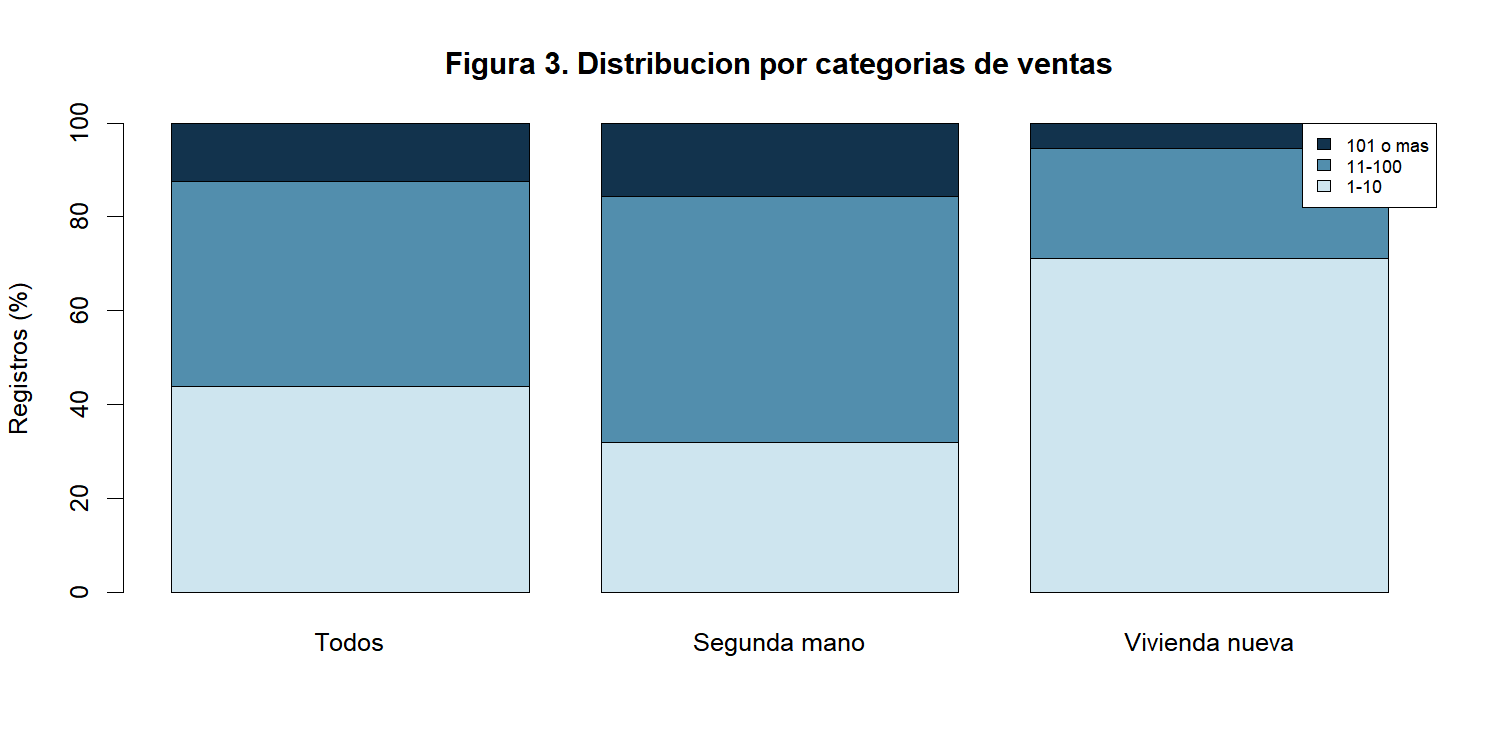
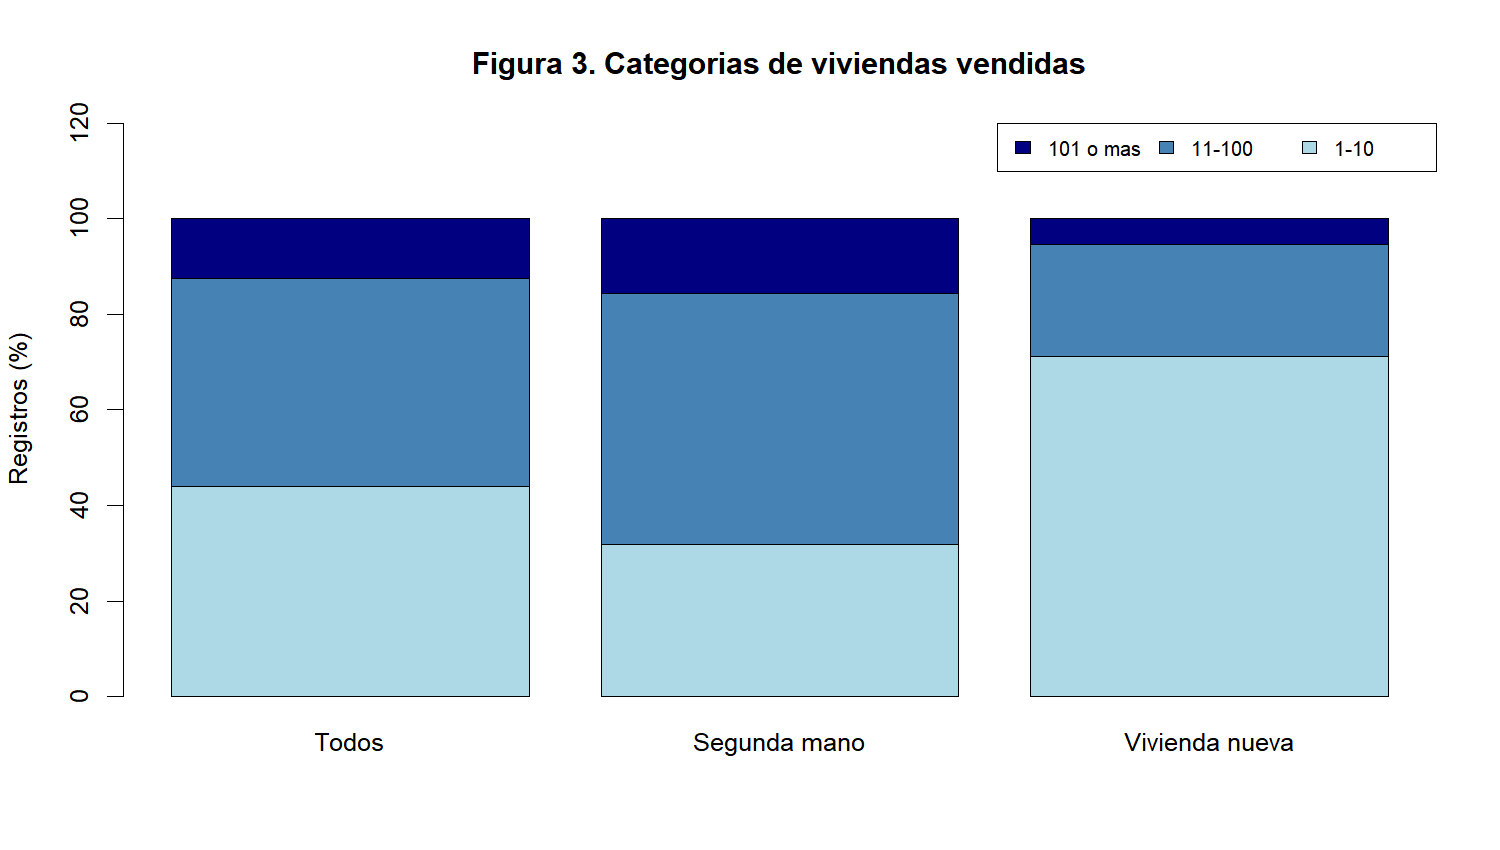
Ajustar PL1 a las practicas 1, 2 y 3: cuartiles tipo 2 y medidas de forma

diff --git a/README.md b/README.md
@@ -2,9 +2,9 @@
 
 **Autor:** Hugo Abellán Lopez  
 **Asignatura:** Estadística · Práctica de laboratorio PL1  
-**Fecha:** 19 de octubre de 2026
+**Fecha:** 24 de octubre de 2026
 
-Comparación entre vivienda nueva y de segunda mano. Informe en Markdown preparado para su publicación en GitHub como actividad extra de PL1.
+Comparación entre vivienda nueva y de segunda mano. Informe en Markdown publicado en GitHub como actividad extra de PL1.
 
 ## 1. Introducción
 
@@ -24,11 +24,11 @@ El estudio se limita al archivo facilitado para 2025-T4. **Antes de realizar cua
 
 ### 2.1 Origen de los datos
 
-Se utiliza `transacciones_vivienda_municipios_2025_T4.csv`, selección facilitada para la práctica. El conjunto oficial es [Transacciones inmobiliarias de vivienda nueva y de segunda mano, por municipio. Comunidad de Madrid](https://datos.comunidad.madrid/dataset/transacciones_vivienda_nueva_usada_municipio). Esa página permite descargar los datos originales y señala como fuente la Estadística de Transacciones Inmobiliarias. El catálogo puede actualizarse; los cálculos reproducen el archivo incluido en este proyecto.
+Se utiliza `transacciones_vivienda_municipios_2025_T4.csv`, selección facilitada para la práctica. El conjunto oficial es [Transacciones inmobiliarias de vivienda nueva y de segunda mano, por municipio. Comunidad de Madrid](https://datos.comunidad.madrid/dataset/transacciones_vivienda_nueva_usada_municipio). Esa página permite descargar los datos originales y señala como fuente la Estadística de Transacciones Inmobiliarias. El catálogo puede actualizarse; los cálculos reproducen el archivo incluido en el proyecto de RStudio que se entrega con la práctica.
 
 ### 2.2 Herramientas
 
-Se utiliza R 4.6.1 con funciones de R base, sin instalar paquetes. El proyecto puede abrirse en RStudio. Se ha empleado asistencia de inteligencia artificial para preparar el código, posteriormente ejecutado y comprobado. El código se encuentra en `analisis.R`, separado del informe.
+Se utiliza R 4.6.1 con funciones de R base, sin instalar paquetes. El proyecto puede abrirse en RStudio. Se ha empleado asistencia de inteligencia artificial para preparar el código, posteriormente ejecutado y comprobado. El código se entrega en `analisis.R`, separado del informe. Sigue los procedimientos de las prácticas 1, 2 y 3: lectura y filtros, medidas descriptivas y comparación por grupos con `tapply`.
 
 ### 2.3 Diseño
 
@@ -66,6 +66,7 @@ La tabla 2 presenta centralización, dispersión, localización y forma para Tod
 | Suma (viviendas) | 21188 | 19677 | 1511 |
 | Media (v) | 88,65 | 118,54 | 20,70 |
 | Mediana (v) | 13,00 | 21,50 | 4,00 |
+| Moda (v) | 1,00 | 3,00 | 1,00 |
 | Mínimo (v) | 1,00 | 1,00 | 1,00 |
 | Máximo (v) | 10.344,00 | 10.344,00 | 310,00 |
 | Rango (v) | 10.343,00 | 10.343,00 | 309,00 |
@@ -73,16 +74,16 @@ La tabla 2 presenta centralización, dispersión, localización y forma para Tod
 | Desviación típica (v) | 671,62 | 804,18 | 47,64 |
 | Coeficiente de variación | 7,58 | 6,78 | 2,30 |
 | Primer cuartil (v) | 4,00 | 7,00 | 1,00 |
-| Tercer cuartil (v) | 38,00 | 54,25 | 19,00 |
-| Rango intercuartílico (v) | 34,00 | 47,25 | 18,00 |
-| Asimetría de Fisher | 14,99 | 12,50 | 4,17 |
-| Exceso de curtosis | 226,38 | 156,39 | 19,61 |
+| Tercer cuartil (v) | 38,00 | 55,00 | 19,00 |
+| Rango intercuartílico (v) | 34,00 | 48,00 | 18,00 |
+| Asimetría | 14,90 | 12,39 | 4,08 |
+| Exceso de curtosis | 224,46 | 154,47 | 18,99 |
 | Inferiores a la media | 207 (86,61%) | 143 (86,14%) | 55 (75,34%) |
 | Superiores a la media | 32 (13,39%) | 23 (13,86%) | 18 (24,66%) |
 
 **Unidades:** v = viviendas vendidas por municipio en el cuarto trimestre de 2025 para el tipo correspondiente. La varianza tiene esa unidad al cuadrado. CV, asimetría y curtosis no tienen unidades. No hay valores iguales a la media.
 
-La varianza y la desviación típica usan n−1. Los cuartiles usan el método tipo 7 de R. Los momentos centrales se definen como mₖ = Σ(xᵢ − media)ᵏ/n; se calcula asimetría = m₃/m₂^(3/2) y exceso de curtosis = m₄/m₂² − 3, sin corrección de sesgo y en la escala original. La moda es 1 en Todos, 3 en segunda mano y 1 en vivienda nueva, en viviendas vendidas por municipio en 2025-T4.
+La varianza y la desviación típica usan n-1. Los cuartiles y el rango intercuartílico se calculan con **tipo 2**, siguiendo la práctica 2. Para las medidas de forma se usan las funciones definidas en esa práctica: asimetría = media de (x - media)^3 / s^3; exceso de curtosis = media de (x - media)^4 / s^4 - 3, donde s es la desviación típica muestral. Son equivalentes al tipo 3 de `e1071`, sin necesidad de instalar ese paquete. Todos los cálculos se realizan sobre los valores originales.
 
 ### 3.3 Tablas de contingencia
 
@@ -126,7 +127,7 @@ La figura 2 muestra histogramas y diagramas de caja para Todos y cada tipo.
 
 **Figura 2. Histogramas y diagramas de caja de las ventas, total y por tipo.**
 
-Los histogramas representan log10 de las ventas: 0 equivale a 1 vivienda, 1 a 10, 2 a 100, 3 a 1.000 y 4 a 10.000. Las cajas utilizan eje vertical logarítmico. La línea negra marca la mediana y la roja discontinua la media, transformada únicamente para situarla en el gráfico. Los bigotes siguen la regla de 1,5 veces el rango intercuartílico en los datos originales. Los atípicos se conservan. Las medidas de la tabla 2 se calculan en la escala original.
+Los histogramas y diagramas de caja muestran el número original de viviendas vendidas, sin aplicar logaritmos. Cada panel tiene su propia escala; deben leerse sus ejes antes de comparar. La línea negra indica la mediana y la roja discontinua la media. El máximo de segunda mano comprime visualmente los valores pequeños; la tabla 2 y la figura 3 permiten completar la comparación. Los diagramas de caja usan las bisagras de Tukey que aplica `boxplot` de R, que pueden diferir ligeramente de los cuartiles de tipo 2 de la tabla. Los puntos fuera de los bigotes son atípicos según la regla del diagrama, pero se mantienen en todos los cálculos.
 
 La figura 3 compara los porcentajes de las categorías de la tabla 4 dentro de cada muestra.
 
@@ -142,9 +143,9 @@ La tabla 1 y la figura 1 muestran que el 69,46% de los 239 registros positivos c
 
 Según la tabla 2, Todos tiene una media de 88,65 viviendas vendidas por municipio y tipo en 2025-T4 y una mediana de 13,00 viviendas vendidas por municipio y tipo en ese trimestre. La media de segunda mano es de 118,54 viviendas vendidas por municipio, frente a 20,70 viviendas nuevas vendidas por municipio, siempre en el cuarto trimestre de 2025. Las medianas respectivas son 21,50 y 4,00 viviendas vendidas por municipio en dicho trimestre. La segunda mano presenta valores mayores con ambas medidas.
 
-La tabla 2 y la figura 2 reflejan gran dispersión. La desviación típica es de 804,18 viviendas de segunda mano vendidas por municipio en 2025-T4, frente a 47,64 viviendas nuevas vendidas por municipio en ese trimestre. Los CV son 6,78 y 2,30: la segunda mano también tiene mayor dispersión relativa. Sus cuartiles van de 7,00 a 54,25 viviendas de segunda mano vendidas por municipio en 2025-T4; en vivienda nueva van de 1,00 a 19,00 viviendas nuevas vendidas por municipio en ese trimestre.
+La tabla 2 y la figura 2 reflejan gran dispersión. La desviación típica es de 804,18 viviendas de segunda mano vendidas por municipio en 2025-T4, frente a 47,64 viviendas nuevas vendidas por municipio en ese trimestre. Los CV son 6,78 y 2,30: la segunda mano también tiene mayor dispersión relativa. Sus cuartiles van de 7,00 a 55,00 viviendas de segunda mano vendidas por municipio en 2025-T4; en vivienda nueva van de 1,00 a 19,00 viviendas nuevas vendidas por municipio en ese trimestre.
 
-La asimetría es positiva en Todos (14,99), segunda mano (12,50) y vivienda nueva (4,17), como indica la tabla 2. La figura 2 muestra valores altos aislados. El máximo es de 10.344 viviendas de segunda mano vendidas en un municipio en 2025-T4, frente a 310 viviendas nuevas vendidas en un municipio en ese trimestre. El exceso de curtosis es elevado: 226,38 en Todos, 156,39 en segunda mano y 19,61 en vivienda nueva. Refleja el peso de los extremos; la forma en escala original no debe deducirse de la apariencia de los histogramas transformados.
+La asimetría es positiva en Todos (14,90), segunda mano (12,39) y vivienda nueva (4,08), como indica la tabla 2. La figura 2 muestra valores altos aislados. El máximo es de 10.344 viviendas de segunda mano vendidas en un municipio en 2025-T4, frente a 310 viviendas nuevas vendidas en un municipio en ese trimestre. El exceso de curtosis es elevado: 224,46 en Todos, 154,47 en segunda mano y 18,99 en vivienda nueva. Refleja el peso de los extremos; los histogramas se representan en la escala original y muestran la concentración de las ventas en los intervalos bajos.
 
 La tabla 2 muestra que 143 registros de segunda mano (86,14%) y 55 de vivienda nueva (75,34%) quedan por debajo de la media de su grupo. La mediana permite describir el centro con menor influencia de los municipios con más ventas.
 
@@ -158,7 +159,10 @@ Entre los registros positivos de la Comunidad de Madrid, la segunda mano present
 
 ## 6. Referencias
 
-- Comunidad de Madrid. (s. f.). *Transacciones inmobiliarias de vivienda nueva y de segunda mano, por municipio. Comunidad de Madrid* [Conjunto de datos]. [Catálogo y descarga](https://datos.comunidad.madrid/dataset/transacciones_vivienda_nueva_usada_municipio). Consulta: 19 de octubre de 2026.
+- Comunidad de Madrid. (s. f.). *Transacciones inmobiliarias de vivienda nueva y de segunda mano, por municipio. Comunidad de Madrid* [Conjunto de datos]. [Catálogo y descarga](https://datos.comunidad.madrid/dataset/transacciones_vivienda_nueva_usada_municipio). Consulta: 24 de octubre de 2026.
+- Hilera, J. R. (2026). [Práctica 1: Introducción a R y RStudio](https://hilera.web.uah.es/estadistica/r/p1/index.html).
+- Hilera, J. R. (2026). [Práctica 2: Estadística descriptiva con una variable](https://hilera.web.uah.es/estadistica/r/p2/p2.pdf).
+- Hilera, J. R. (2026). [Práctica 3: Estadística descriptiva con dos variables](https://hilera.web.uah.es/estadistica/r/p3/p3.pdf).
 - Hilera, J. R. (2026). *Práctica 4: Informe de estadística descriptiva* [Material docente, p4.pdf]. CC-BY.
 - Universidad de Alcalá. (s. f.). *PL1: Informe de estadística descriptiva* [Enunciado facilitado, PL1.pdf].
 
@@ -222,7 +226,7 @@ Valores en viviendas vendidas por municipio en el cuarto trimestre de 2025 para 
   310
 ```
 
-## Archivos y publicación
+## Actividad extra: publicación en GitHub
 
 Este repositorio publica el informe en Markdown y los tres gráficos que lo acompañan. Los datos y el proyecto de RStudio se entregan al profesor en el ZIP de la práctica.
 
